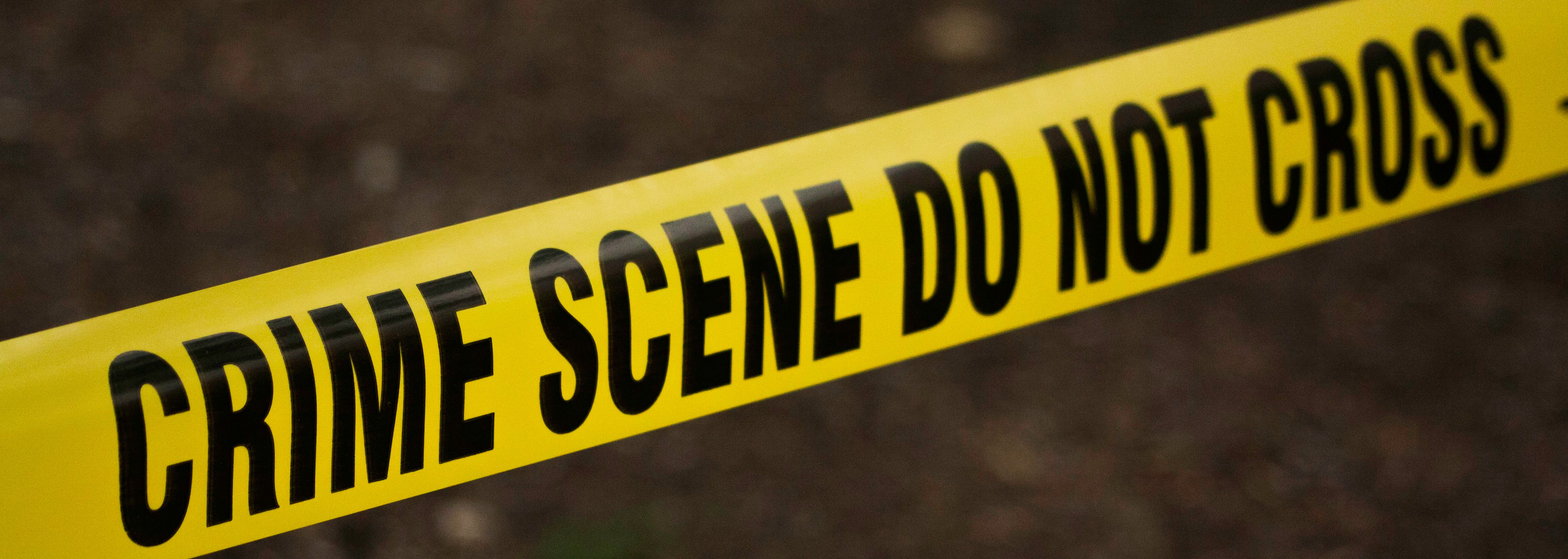
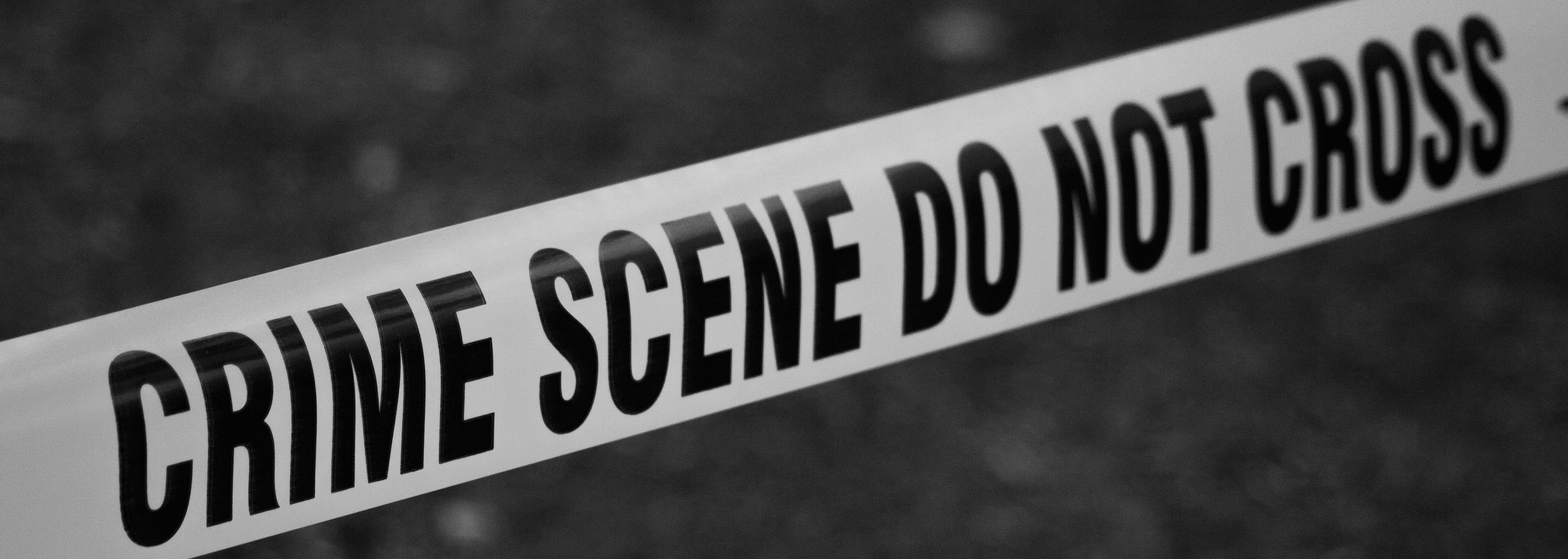
Added header images

diff --git a/3_Sharing_your_work/7_Readme_file.md b/3_Sharing_your_work/7_Readme_file.md
@@ -2,6 +2,9 @@
 title: Readme file
 permalink: /sharing_your_work/readme_file
 toc: false
+header:
+    overlay_image: /figures/rayi-christian-wicaksono-366-unsplash_cropped.jpg
+    caption: "<small>Photo credit: <a href='https://unsplash.com/photos/6PF6DaiWz48' target='_blank'>Rayi Christian Wicaksono</a></small>"
 ---
 {% include toc title="On this page" %}
 There is one last thing I want to talk about, which is how to tie what we have looked at so far together in a readme file. The readme file will be the entry point for visitors to your project on GitHub. We will use it to explain what is contained in the repository and how this can be used to reproduce the results. You can write the readme file as a markdown (.md) or text (.txt) file, and it will be automatically detected by GitHub and displayed when someone visits your repository. In the following, I'll talk about what sections to include and what they should contain.
@@ -96,7 +99,7 @@ I used a MacBook Pro (macOS High Sierra 10.13.5) 3.1 GHz Intel Core i5 with 16 G
 {% endcapture %}
 
 <details>
-<summary>Show readme file of example project</summary>
+<summary style="cursor:pointer">Show readme file of example project</summary>
 <small>
 <div style="background-color:#eef7fa">
 {{ readme-example | markdownify }}
@@ -176,7 +179,7 @@ dependencies:
 {% endcapture %}
 
 <details>
-<summary>Show example environment.yml file</summary>
+<summary style="cursor:pointer">Show example environment.yml file</summary>
 <small>
 {{ environment-yml | markdownify }}
 </small>
@@ -320,7 +323,7 @@ if __name__ == '__main__':
 {% endcapture %}
 
 <details>
-  <summary>Show script to run multiple Jupyter notebooks in order</summary>
+  <summary style="cursor:pointer">Show script to run multiple Jupyter notebooks in order</summary>
   <small>
   {{ runscript | markdownify }}
   </small>

diff --git a/2_During_the_analysis/4_Documentation.md b/2_During_the_analysis/4_Documentation.md
@@ -1,6 +1,9 @@
 ---
 title: Documentation
 permalink: /during_the_analysis/documentation
+header:
+    overlay_image: /figures/rayi-christian-wicaksono-366-unsplash_cropped.jpg
+    caption: "<small>Photo credit: <a href='https://unsplash.com/photos/6PF6DaiWz48' target='_blank'>Rayi Christian Wicaksono</a></small>"
 ---
 Writing good and up-to-date documentation on your code as well as your data is critical for others as well as yourself to be able to understand what you did and especially why. I highly recommend to integrate writing documentation tightly into your workflow, as it is way easier to continuously note down important information as it arises instead of trying to retrieve it at the end of a project.
 
@@ -112,7 +115,7 @@ def load_relevant_crimes(min_date,
 {% endcapture %}
 
 <details>
-<summary>Show another, more extended, example of a documented function</summary>
+<summary style="cursor:pointer">Show another, more extended, example of a documented function</summary>
 <small>
 {{ extended-function | markdownify }}
 </small>
@@ -250,14 +253,14 @@ def download_file(url,
 {% endcapture %}
 
 <details>
-<summary>Show download function</summary>
+<summary style="cursor:pointer">Show download function</summary>
 <small>
 {{ download-function | markdownify }}
 </small>
 </details>
 
 <details>
-<summary>Show a full "download-data" Jupyter notebook which contains information and sources on all raw data files</summary>
+<summary style="cursor:pointer">Show a full "download-data" Jupyter notebook which contains information and sources on all raw data files</summary>
 <iframe src="https://nbviewer.jupyter.org/github/binste/chicago_safepassage_evaluation/blob/master/notebooks/0_download_data/0.0-binste-download-data.ipynb" height="1100" width="100%" style="border:none;"></iframe>
 </details><br />
 

diff --git a/2_During_the_analysis/5_Doing_the_work.md b/2_During_the_analysis/5_Doing_the_work.md
@@ -1,6 +1,9 @@
 ---
 title: Other stuff
 permalink: /during_the_analysis/other_stuff
+header:
+    overlay_image: /figures/rayi-christian-wicaksono-366-unsplash_cropped.jpg
+    caption: "<small>Photo credit: <a href='https://unsplash.com/photos/6PF6DaiWz48' target='_blank'>Rayi Christian Wicaksono</a></small>"
 ---
 Apart from the documentation of your project discussed previously, there are a few other practices you should follow during your analysis.
 
@@ -17,7 +20,7 @@ Another thing that is important to remember is to always use relative instead of
 If you follow a notebook-based workflow, your notebooks might get cluttered with a lot of code at one point which you might even end up copying from one notebook to the next. To increase the reusability of your code and clean up your notebooks, you can put code into functions and then into a separate script. This allows to import the same functions in multiple notebooks. If you have, for example, some code which loads data from a SQL database, and you want to do this in multiple notebooks, this would be a perfect use case for a function in a separate script. You can see this example implemented in the following Jupyter notebook:
 
 <details>
-<summary>Show notebook</summary>
+<summary style="cursor:pointer">Show notebook</summary>
 <iframe src="https://nbviewer.jupyter.org/github/binste/chicago_safepassage_evaluation/blob/master/notebooks/3_match_datasets/2.0-binste-crimes-blocks.ipynb" height="1100" width="100%" style="border:none;"></iframe>
 </details><br />
 
@@ -75,7 +78,7 @@ def load_relevant_crimes(min_date,
 {% endcapture %}
 
 <details>
-<summary>Show function in crime_database.py</summary>
+<summary style="cursor:pointer">Show function in crime_database.py</summary>
 <small>
 {{ crime-database-script | markdownify }}
 </small>

diff --git a/1_Preparation/1_Programming_environment.md b/1_Preparation/1_Programming_environment.md
@@ -2,6 +2,9 @@
 title: Development environment
 permalink: /preparation/development_environment
 toc: false
+header:
+    overlay_image: /figures/rayi-christian-wicaksono-366-unsplash_cropped.jpg
+    caption: "<small>Photo credit: <a href='https://unsplash.com/photos/6PF6DaiWz48' target='_blank'>Rayi Christian Wicaksono</a></small>"
 ---
 {% include toc title="On this page" %}
 ## Package and environment manager
@@ -44,7 +47,7 @@ For more information on how to use conda environments, see [the official documen
 {% endcapture %}
 
 <details>
-  <summary>Continue with the instructions for Python users</summary>
+  <summary style="cursor:pointer">Continue with the instructions for Python users</summary>
 <small>
 <div style="background-color:#eef7fa">
   {{ python-text | markdownify }}
@@ -94,7 +97,7 @@ conda deactivate
 For more information on how to use conda environments, see [the official documentation](https://conda.io/docs/user-guide/tasks/manage-environments.html).
 {% endcapture %}
 <details>
-  <summary>Continue with the instructions for R users</summary>
+  <summary style="cursor:pointer">Continue with the instructions for R users</summary>
 <small>
 <div style="background-color:#eef7fa">
   {{ r-text | markdownify }}

diff --git a/3_Sharing_your_work/6_License.md b/3_Sharing_your_work/6_License.md
@@ -2,6 +2,9 @@
 title: License
 permalink: /sharing_your_work/license
 toc: false
+header:
+    overlay_image: /figures/rayi-christian-wicaksono-366-unsplash_cropped.jpg
+    caption: "<small>Photo credit: <a href='https://unsplash.com/photos/6PF6DaiWz48' target='_blank'>Rayi Christian Wicaksono</a></small>"
 ---
 >*"When you make a creative work (which includes code), the work is under exclusive copyright by default. Unless you include a license that specifies otherwise, nobody else can use, copy, distribute, or modify your work without being at risk of take-downs, shake-downs, or litigation. Once the work has other contributors (each a copyright holder), “nobody” starts including you."* - [choosealicense.com](https://choosealicense.com/){:target="_blank"}
 

diff --git a/1_Preparation/3_Version_control.md b/1_Preparation/3_Version_control.md
@@ -1,6 +1,9 @@
 ---
 title: Version control
 permalink: /preparation/version_control
+header:
+    overlay_image: /figures/rayi-christian-wicaksono-366-unsplash_cropped.jpg
+    caption: "<small>Photo credit: <a href='https://unsplash.com/photos/6PF6DaiWz48' target='_blank'>Rayi Christian Wicaksono</a></small>"
 ---
 Putting your project under version control can greatly help you make your project reproducible. It lets you try out different versions of an analysis and still revert back to a previous one. Furthermore, it can save you a lot of time down the line when you want to track down a bug and you are not sure when it got introduced or how the code looked before you changed that one buggy function.
 

diff --git a/1_Preparation/2_Folder_structure.md b/1_Preparation/2_Folder_structure.md
@@ -2,6 +2,9 @@
 title: Folder structure
 permalink: /preparation/folder_structure
 toc: false
+header:
+    overlay_image: /figures/rayi-christian-wicaksono-366-unsplash_cropped.jpg
+    caption: "<small>Photo credit: <a href='https://unsplash.com/photos/6PF6DaiWz48' target='_blank'>Rayi Christian Wicaksono</a></small>"
 ---
 Setting up a well-structured project folder makes it significantly easier for you to keep tabs on all the relevant files, and of course it allows others to more quickly get an overview and find what they are looking for.
 

diff --git a/index.md b/index.md
@@ -1,8 +1,8 @@
 ---
 title: Introduction
 header:
-    overlay_image: /figures/simon-abrams-286276-unsplash_cropped.jpg
-    caption: "<small>Photo credit: [Simon Abrams](https://unsplash.com/photos/k_T9Zj3SE8k)</small>"
+    overlay_image: /figures/rayi-christian-wicaksono-366-unsplash_cropped.jpg
+    caption: "<small>Photo credit: <a href='https://unsplash.com/photos/6PF6DaiWz48' target='_blank'>Rayi Christian Wicaksono</a></small>"
 permalink: ./
 author_profile: true
 share: true
